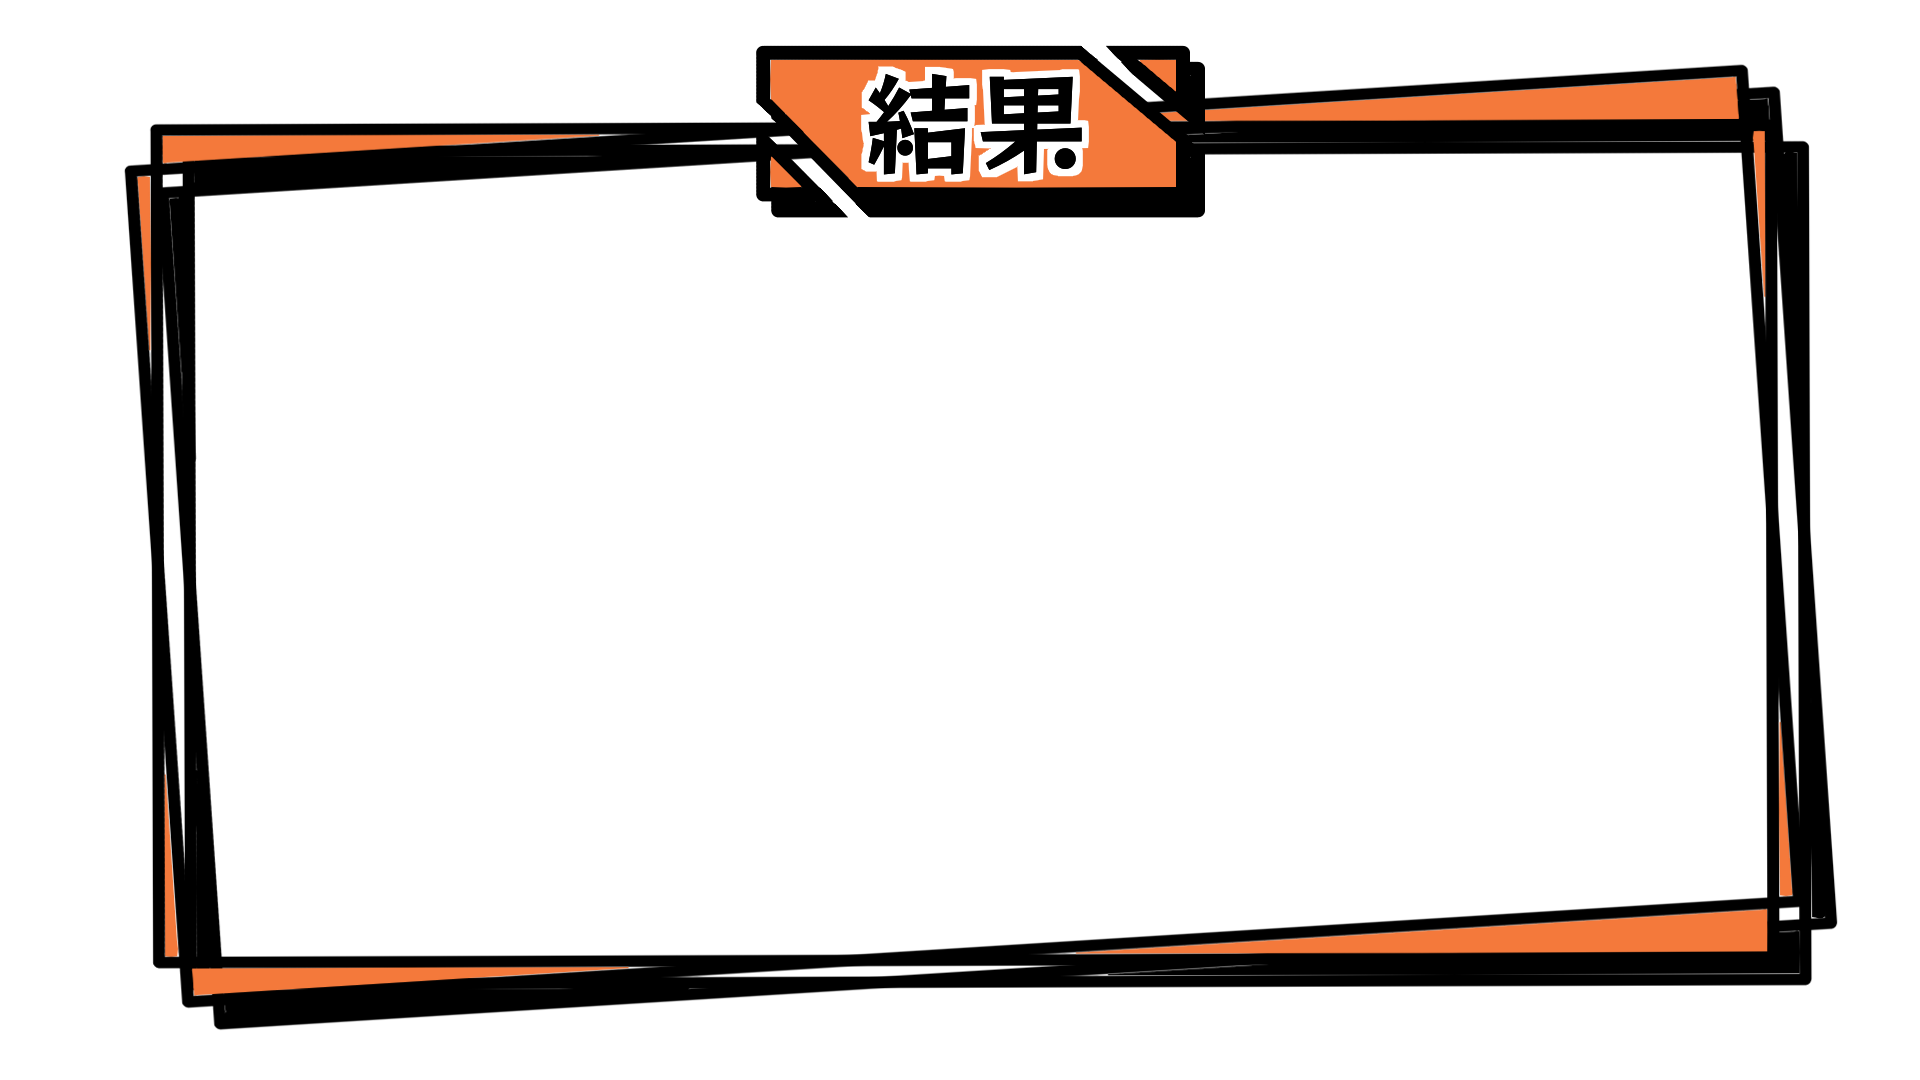
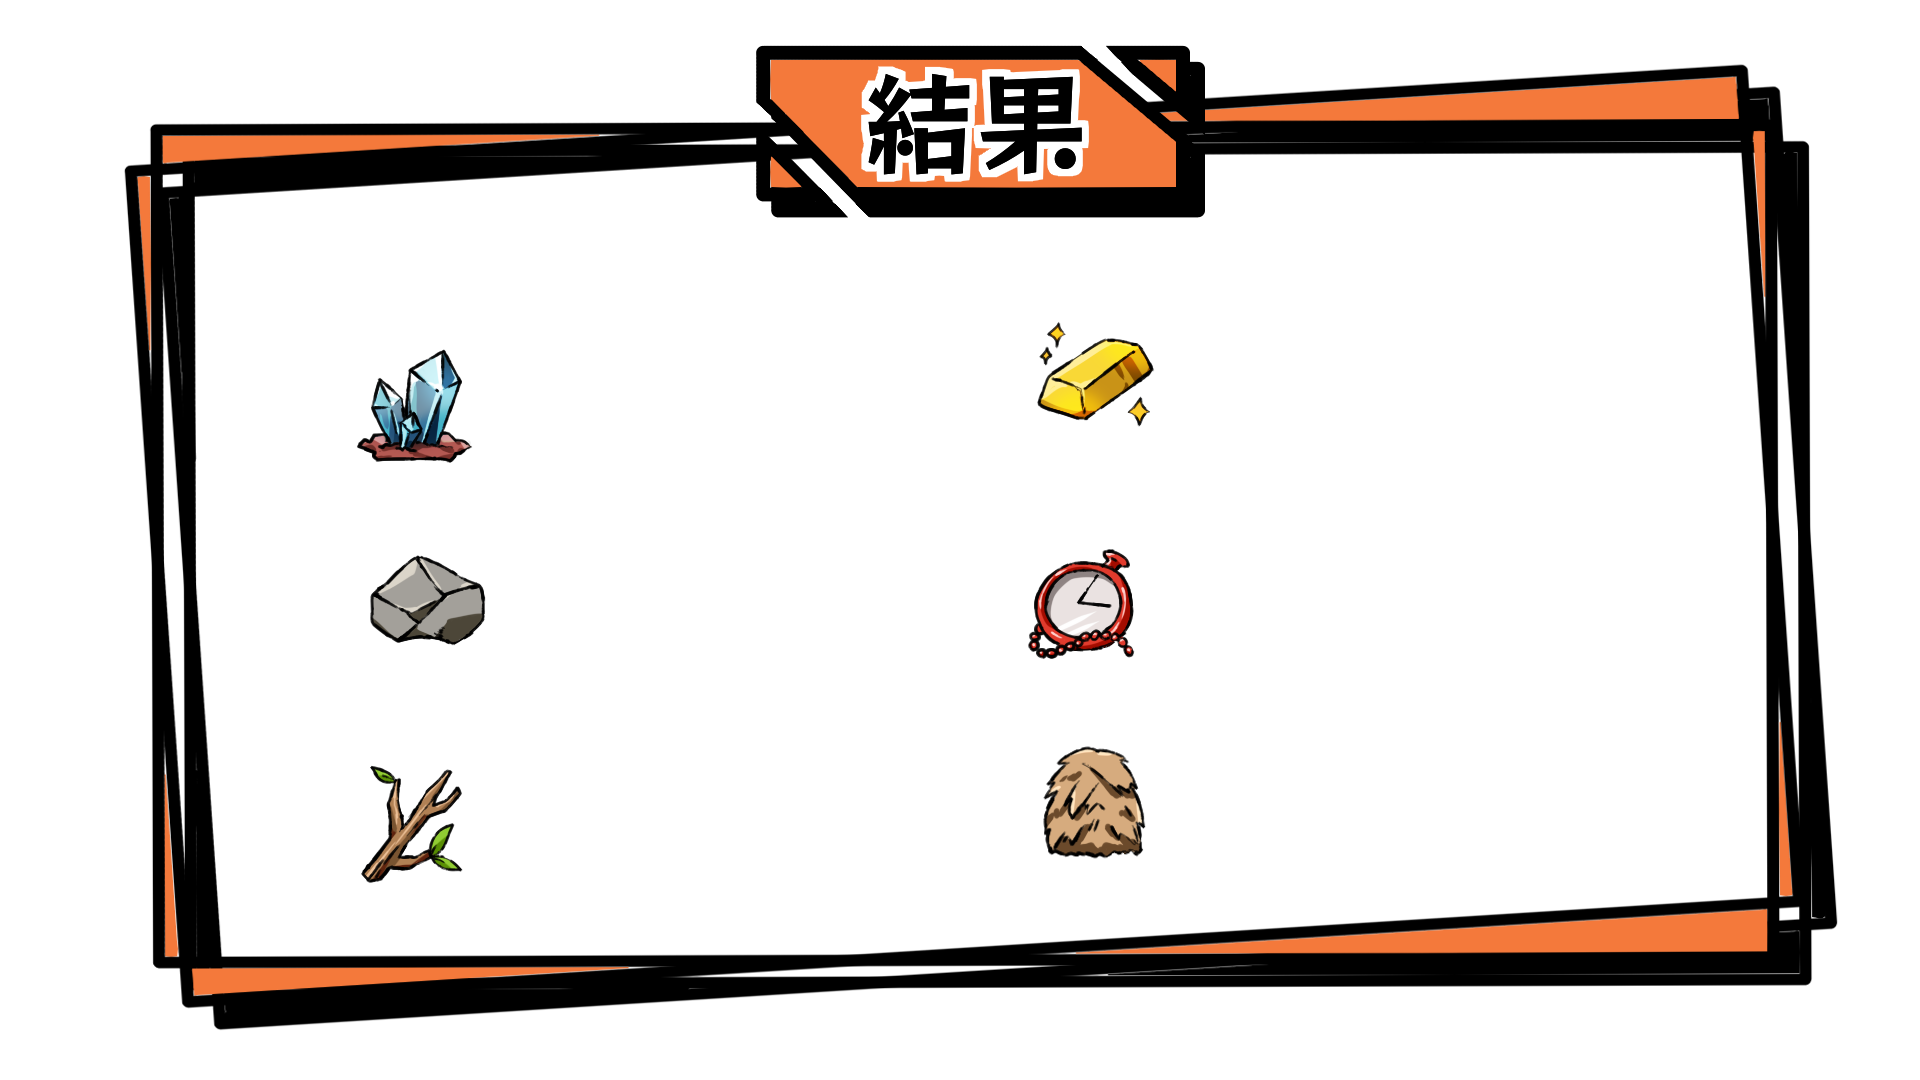
素材集めの完成

diff --git a/GenkaiSyuraku/Material.hpp b/GenkaiSyuraku/Material.hpp
@@ -5,6 +5,7 @@
 #include <cstdint>
 #include <random>
 #include <string>
+#include "Item.hpp"
 
 // 釣りの状態
 enum :std::uint_fast8_t {
@@ -117,20 +118,22 @@ public:
 		image_hand = LoadGraph("image/hand.png");
 		image_broom = LoadGraph("image/broom.png");
 		image_find_material = LoadGraph("image/find_fish.png");
-		image_result = LoadGraph("image/result2.png");
+		image_result = LoadGraph("image/result3.png");
 		back = LoadGraph("image/ocean.png");
 		image_uki = LoadGraph("image/uki.png");
 		wave = LoadGraph("image/wave.png");
 		materialer_image[materialer_scene_empty] = LoadGraph("image/materialer1.png");
 		materialer_image[materialer_scene_hit] = LoadGraph("image/materialer2.png");
 		materialer_image[materialer_scene_go] = LoadGraph("image/materialer3.png");
+		broomer_image[materialer_scene_empty] = LoadGraph("image/broomer1.png");
+		broomer_image[materialer_scene_hit] = LoadGraph("image/broomer2.png");
+		broomer_image[materialer_scene_go] = LoadGraph("image/broomer3.png");
 
 		image_ocean_sky = LoadGraph("image/ocean_sky.png");
 		image_ocean_cloud = LoadGraph("image/ocean_cloud.png");
 		image_ocean_island = LoadGraph("image/ocean_island.png");
 		for (std::size_t i{}; i < material_image.size(); ++i) {
 			material_image[i] = LoadGraph(std::string("image/material" + std::to_string(i + 1) + ".png").c_str());
-			result_shadow_image[i] = LoadGraph(std::string("image/result_shadow" + std::to_string(i + 1) + ".png").c_str());
 			material_30shadow_image[i] = LoadGraph(std::string("image/material_30shadow" + std::to_string(i + 1) + ".png").c_str());
 		}
 		for (std::size_t i{}; i < field.size(); ++i)
@@ -236,7 +239,13 @@ public:
 
 		// 海と島
 		//DxLib::DrawGraph(0, 0, image_ocean_island, TRUE);
-		DxLib::DrawGraph(0,0, materialer_image[materialer_status], TRUE);
+		if (width == 1 && height == 1) {
+			DxLib::DrawGraph(0, 0, materialer_image[materialer_status], TRUE);
+		}
+		else {
+			DxLib::DrawGraph(0, 0, broomer_image[materialer_status], TRUE);
+		}
+
 		if (field[select_y][select_x] != material_num) DxLib::DrawGraph(1350, 800, material_image[field[select_y][select_x]], TRUE);
 
 		// 泳ぐ素材の制御
@@ -264,32 +273,6 @@ public:
 				DrawRotaGraph((int)material_get[i].window_x, (int)material_get[i].window_y, 1.0f, material_get[i].r, material_image[material_get[i].material_type], TRUE);
 			}
 		}
-
-		switch (material_scene)
-		{
-		case material_scene_empty:
-			break;
-		case material_scene_start:
-			--material_scene_start_timer;
-			DxLib::DrawGraph(0, 0, material_start_image[material_scene_start_timer / 60], TRUE);
-			if (material_scene_start_timer <= 0) material_scene = material_scene_material;
-			break;
-		case material_scene_material:
-			DrawFormatStringToHandle(0, 0, GetColor(30,30,30), font_timer, "制限時間：%d.%d", timer / 60, (int)((timer % 60) / 60.0 * 100));
-			break;
-		case material_scene_end:
-			DxLib::DrawGraph(0, 0, image_result, TRUE);
-			DrawFormatStringToHandle(700, 380, GetColor(0, 0, 0), font_timer, "%d個", material_count[material_money]);
-			DrawFormatStringToHandle(700, 580, GetColor(0, 0, 0), font_timer, "%d個", material_count[material_stone]);
-			DrawFormatStringToHandle(700, 780, GetColor(0, 0, 0), font_timer, "%d個", material_count[material_wood]);
-			DrawFormatStringToHandle(1400, 380, GetColor(0, 0, 0), font_timer, "%d個", material_count[material_gold]);
-			DrawFormatStringToHandle(1400, 580, GetColor(0, 0, 0), font_timer, "%d個", material_count[material_timer]);
-			DrawFormatStringToHandle(1400, 780, GetColor(0, 0, 0), font_timer, "%d個", material_count[material_straw]);
-			for (std::size_t i{}; i < material_num; ++i) {
-				if (material_count[i] == 0) DxLib::DrawGraph(0, 0, result_shadow_image[i], TRUE);
-			}
-			break;
-		}
 		
 		if (width == 1 && height == 1) {
 			DxLib::DrawGraph(field_x + (int)select_x * 128, field_y + (int)select_y * 128, image_select_range, TRUE);
@@ -301,14 +284,39 @@ public:
 				DxLib::DrawGraph(field_x + (int)j * 128, field_y + (int)i * 128, image_broom, TRUE);
 			}
 		}
-		if (materialer_status == materialer_scene_go && material_get.size() > 0) {
-			DrawGraph(1300, 750, material_image[material_get.back().material_type], TRUE);
-			DrawGraph(0, 0, image_materialer_hand, TRUE);
+		if (width == 1 && height == 1) {
+			if (materialer_status == materialer_scene_go && material_get.size() > 0) {
+				DrawGraph(1300, 750, material_image[material_get.back().material_type], TRUE);
+				DrawGraph(0, 0, image_materialer_hand, TRUE);
+			}
 		}
 
 		if (material_scene == material_scene_material) {
 			DrawBox(field_x + ((select_x+1) * 128), field_y + (select_y * 128), field_x + ((select_x+1) * 128)+50, field_y + (select_y * 128)+100, 0xffffffff, TRUE);
 			DrawBox(field_x + ((select_x+1) * 128), field_y + (select_y * 128), field_x + ((select_x+1) * 128)+50, field_y + (select_y * 128)+100 - materialer_timer * 100 / 30, 0xff33aa33, TRUE);
+		}
+
+		switch (material_scene)
+		{
+		case material_scene_empty:
+			break;
+		case material_scene_start:
+			--material_scene_start_timer;
+			DxLib::DrawGraph(0, 0, material_start_image[material_scene_start_timer / 60], TRUE);
+			if (material_scene_start_timer <= 0) material_scene = material_scene_material;
+			break;
+		case material_scene_material:
+			DrawFormatStringToHandle(0, 0, GetColor(30, 30, 30), font_timer, "制限時間：%d.%d", timer / 60, (int)((timer % 60) / 60.0 * 100));
+			break;
+		case material_scene_end:
+			DxLib::DrawGraph(0, 0, image_result, TRUE);
+			DrawFormatStringToHandle(700, 380, GetColor(0, 0, 0), font_timer, "%d個", material_count[material_money]);
+			DrawFormatStringToHandle(700, 580, GetColor(0, 0, 0), font_timer, "%d個", material_count[material_stone]);
+			DrawFormatStringToHandle(700, 780, GetColor(0, 0, 0), font_timer, "%d個", material_count[material_wood]);
+			DrawFormatStringToHandle(1400, 380, GetColor(0, 0, 0), font_timer, "%d個", material_count[material_gold]);
+			DrawFormatStringToHandle(1400, 580, GetColor(0, 0, 0), font_timer, "%d個", material_count[material_timer]);
+			DrawFormatStringToHandle(1400, 780, GetColor(0, 0, 0), font_timer, "%d個", material_count[material_straw]);
+			break;
 		}
 
 		// 強制リザルト画面
@@ -377,8 +385,8 @@ private:
 	int image_hand{ -1 };
 	int image_broom{ -1 };
 
-	const int width{1};
-	const int height{1};
+	const int width{2};
+	const int height{2};
 	int select_x{};
 	int select_y{};
 
@@ -406,9 +414,9 @@ private:
 
 	std::array<int, 4> material_start_image{ -1 };
 	std::array<int, materialer_scene_num> materialer_image{ -1 };
+	std::array<int, materialer_scene_num> broomer_image{ -1 };
 	std::array<int, material_num> material_image{};
 	std::array<int, material_num> material_30shadow_image{};
-	std::array<int, material_num> result_shadow_image{};
 
 	std::array<std::array<std::uint_fast8_t, 6>, 6> field{};
 

diff --git a/GenkaiSyuraku/Fish.hpp b/GenkaiSyuraku/Fish.hpp
@@ -5,6 +5,7 @@
 #include <cstdint>
 #include <random>
 #include <string>
+#include "Item.hpp"
 
 // 釣りの状態
 enum :std::uint_fast8_t {
@@ -147,7 +148,7 @@ public:
 
 	}
 
-	void call(bool up_key[], bool down_key[], std::uint_fast8_t& scene_id, std::uint_fast32_t& fished_count, std::uint_fast32_t& go_fish_count) {
+	void call(std::array<int, item_num>& item_count, bool up_key[], bool down_key[], std::uint_fast8_t& scene_id, std::uint_fast32_t& fished_count, std::uint_fast32_t& go_fish_count) {
 		std::mt19937 engine(seed_gen());
 
 		++cloud_move_time;

diff --git a/GenkaiSyuraku/MainFrame.hpp b/GenkaiSyuraku/MainFrame.hpp
@@ -66,7 +66,7 @@ public:
 
 		// 釣り画面
 		case scene_fish:
-			fish.call(up_key, down_key, scene_id, fished_count, go_fish_count);
+			fish.call(item_count, up_key, down_key, scene_id, fished_count, go_fish_count);
 			break;
 
 		// 素材あつめ画面
